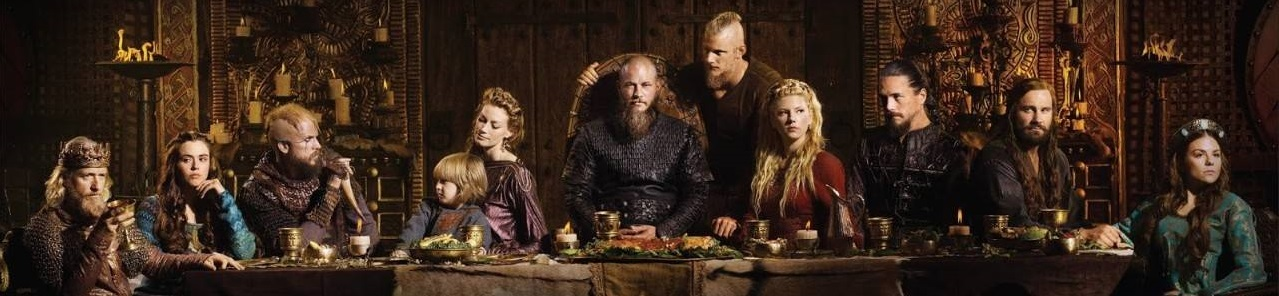
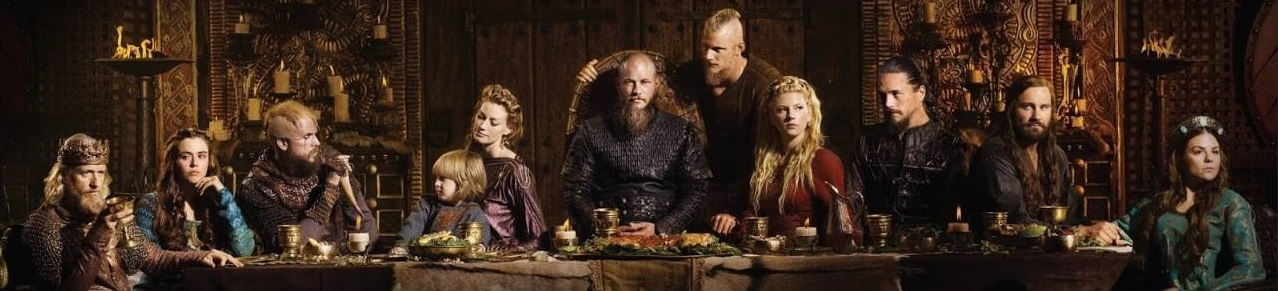
change images on index

diff --git a/index.html b/index.html
@@ -54,13 +54,10 @@
                 <div id="carouselExampleControls" class="carousel slide" data-bs-ride="carousel">
                     <div class="carousel-inner">
                         <div class="carousel-item active">
-                            <img src="/assets/maxresdefault.jpg" class="d-block w-100" alt="cover-image">
+                            <img src="/assets/indexImage1.jpg" style="height: 355px;" class="d-block w-100" alt="cover-image">
                         </div>
                         <div class="carousel-item">
-                            <img src="/assets/pexels-dana-tentis-750073.jpg" style="height: 355px;" class="d-block w-100" alt="cover-image">
-                        </div>
-                        <div class="carousel-item">
-                            <img src="/assets/pexels-horizon-content-3764353.jpg" style="height: 355px;" class="d-block w-100" alt="cover-image">
+                            <img src="/assets/indexImage2.jpg" style="height: 355px;" class="d-block w-100" alt="cover-image">
                         </div>
                     </div>
                     <button class="carousel-control-prev" type="button" data-bs-target="#carouselExampleControls" data-bs-slide="prev">
